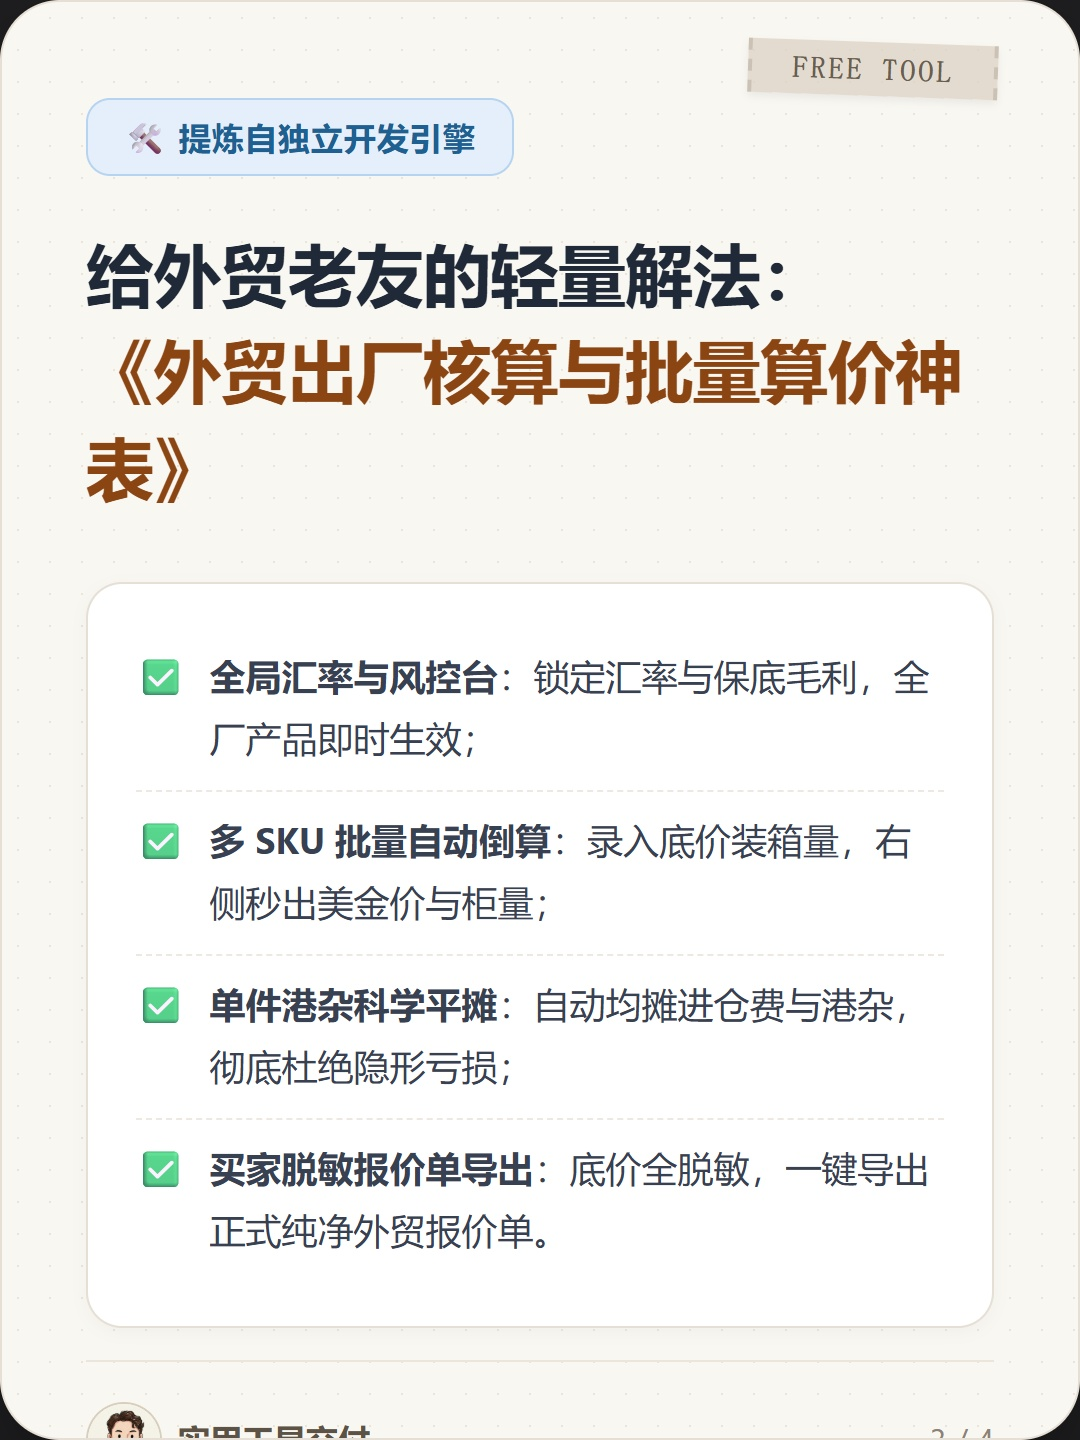
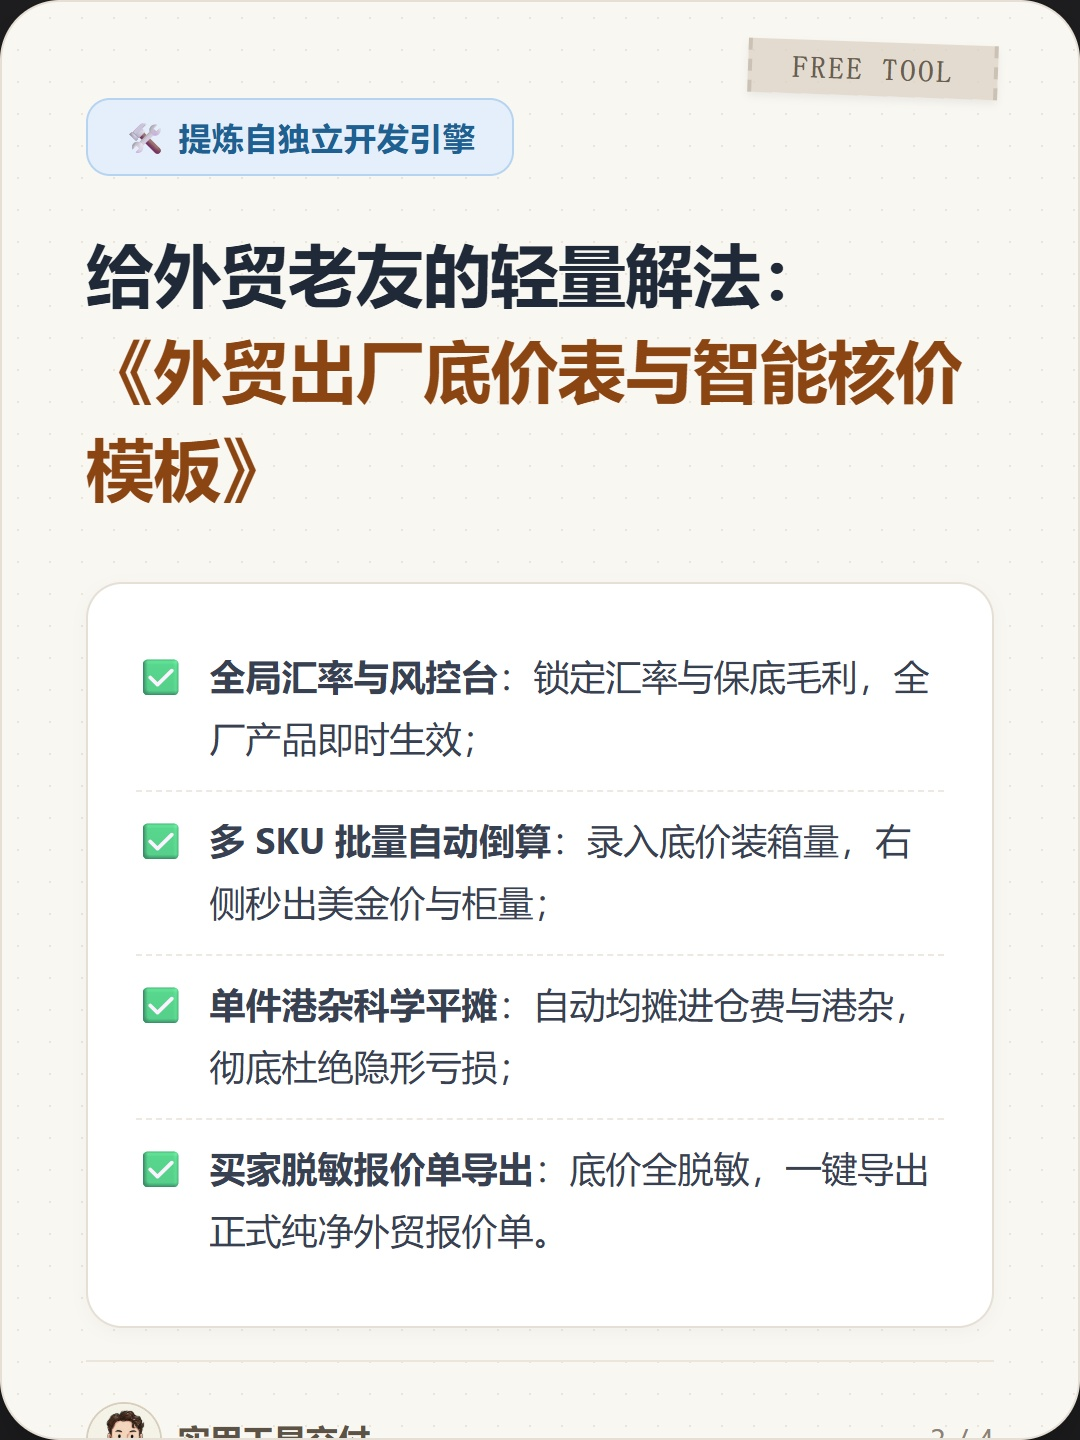
feat(lead_magnet): standardize naming to 2026外贸出厂底价表与智能核价模板_Kelvin旗舰版

Changed region(s): [[0.3972, 0.2188, 0.8861, 0.2812], [0.0611, 0.2812, 0.2444, 0.375]]

diff --git a/cards/post1_carousel.html b/cards/post1_carousel.html
@@ -299,7 +299,7 @@
         <div class="tag tag-blue">🛠 提炼自独立开发引擎</div>
         <div class="card-title">
           给外贸老友的轻量解法：<br/>
-          <span class="highlight-brand">《外贸出厂核算与批量算价神表》</span>
+          <span class="highlight-brand">《外贸出厂底价表与智能核价模板》</span>
         </div>
       </div>
       <div class="card-body">
@@ -345,7 +345,7 @@
         <div class="memo-box">
           <div style="font-weight: 700; color: #2E7D32; margin-bottom: 8px;">📦 获取方式：</div>
           <div style="line-height: 1.65;">
-            进入主页点击<b>【群聊】</b>进官方交流群，在<b>【群文件】</b>即可直接免费下载《2026外贸出厂核算控制台与批量算价神表_Kelvin旗舰版》。
+            进入主页点击<b>【群聊】</b>进官方交流群，在<b>【群文件】</b>即可直接免费下载《2026外贸出厂底价表与智能核价模板_Kelvin旗舰版》。
           </div>
         </div>
         <p style="font-size: 12.5px; color: #4B5563; line-height: 1.6; margin-top: 10px;">

diff --git a/scripts/xiaohongshu/post_01_master_ready.md b/scripts/xiaohongshu/post_01_master_ready.md
@@ -51,7 +51,7 @@
 
 ### 【Card 3：交付（轻量确定性解法）】
 * **顶部 Tag**：`🛠 提炼自独立开发引擎`（静谧蓝质感标）
-* **小标题**：**给外贸老友的轻量解法：《外贸出厂核算与批量算价神表》**
+* **小标题**：**给外贸老友的轻量解法：《外贸出厂底价表与智能核价模板》**
 * **功能清单框（完全对应真实 Excel 模板）**：  
   * ✅ **全局汇率与风控台**：锁定汇率与保底毛利，全厂产品即时生效；
   * ✅ **多 SKU 批量自动倒算**：录入底价装箱量，右侧秒出美金价与柜量；
@@ -65,7 +65,7 @@
 * **顶部 Tag**：`🎁 实用工具箱自取`（薄荷绿质感标）
 * **主标题**：**纯净核价模板已备好，主页官方群聊自取 ☕**
 * **自取路径框**：  
-  * 📦 **获取方式**：进入主页点击**【群聊】**进官方交流群，在**【群文件】**即可直接免费下载《2026外贸出厂核算控制台与批量算价神表_Kelvin旗舰版》。
+  * 📦 **获取方式**：进入主页点击**【群聊】**进官方交流群，在**【群文件】**即可直接免费下载《2026外贸出厂底价表与智能核价模板_Kelvin旗舰版》。
 * **引导交流**：💬 平时批量核价或做英文报价单最烦哪个环节？非常欢迎在评论区交流，我很乐意用技术帮大家一步步优化解决。
 * **页脚作者标识**：`IT佬Kelvin ｜ 大湾区独立开发` ｜ `4 / 4`
 
@@ -81,14 +81,14 @@
 在研发这套系统的过程中，我深入梳理了大量工贸一体与外贸业务的真实出单流程。我发现做外贸的朋友，每天最繁琐、最耗费心力的工作之一，就是面对海外买家发来各种各样的非标询盘邮件：
 买家一封邮件发来十几个甚至几十个型号，业务员要翻出工厂底价表一个个查底价、换算美元汇率、手动平摊海运港杂、还要心算 20GP/40HQ 能装多少箱……整个过程繁琐而且特别容易算错毛利。
 
-为了让大家在日常核价时不再反复按计算器，我把我出单引擎底层那套确定性的批量算价模型，单独抽离成了一套纯净的《外贸出厂核算控制台与批量算价神表》免费分享给大家：
+为了让大家在日常核价时不再反复按计算器，我把我出单引擎底层那套确定性的批量算价模型，单独抽离成了一套纯净的《外贸出厂底价表与智能核价模板》免费分享给大家：
 
 1⃣ 全局汇率与风控控制台：预置了多币种内部锁定汇率，设定全厂保底毛利（如15%）与防穿底红线（如8%），全厂产品即时联动生效；
 2⃣ 多 SKU 批量自动秒算：告别单品反复倒腾，批量录入产品底价与外箱体积，右侧全量产品自动批量倒算出精准的 FOB 美金单价；
 3⃣ 港杂平摊与集装箱柜量秒查：自动把进仓费与海运港杂平摊到单件成本中，并根据箱规自动算出 20GP 小柜与 40HQ 高柜的满载件数；
 4⃣ 买家纯净脱敏报价单：附带了专属的对外纯净商业报价页，工厂底价与利润率全部隐藏脱敏，可直接导出 PDF 发给海外买家。
 
-模板已经整理在主页的粉丝群文件里了（名字是《2026外贸出厂核算控制台与批量算价神表_Kelvin旗舰版》），点击主页群聊就能免费下载，普通 Excel 或 WPS 都能直接用 ☕
+模板已经整理在主页的粉丝群文件里了（名字是《2026外贸出厂底价表与智能核价模板_Kelvin旗舰版》），点击主页群聊就能免费下载，普通 Excel 或 WPS 都能直接用 ☕
 
 如果大家平时在批量核价、或者整理几百个型号的报价单时遇到了卡壳繁琐的环节，非常欢迎在评论区留言交流，我很乐意用代码帮大家一步步优化解决。
 
@@ -114,7 +114,7 @@
 ### 1. 询问如何领模板
 * **用户提问**：“怎么领？” / “模板在哪里？” / “求发一份”
 * **官方回复**：  
-  > “老友，点击我的主页，下方有官方【群聊】入口，进入群聊后在【群文件】就可以直接下载《2026外贸出厂核算控制台与批量算价神表_Kelvin旗舰版》，录入底价后右侧黄色区域批量自动出美金价和柜量，普通 Excel / WPS 直接可用 ☕”
+  > “老友，点击我的主页，下方有官方【群聊】入口，进入群聊后在【群文件】就可以直接下载《2026外贸出厂底价表与智能核价模板_Kelvin旗舰版》，录入底价后右侧黄色区域批量自动出美金价和柜量，普通 Excel / WPS 直接可用 ☕”
 
 ### 2. 询问模板使用与修改
 * **用户提问**：“公式可以自己修改吗？” / “汇率怎么更新？”
@@ -137,6 +137,6 @@
 
 - [x] **合规扫描**：已运行 `python tools/check_compliance.py`，0 违规词，0 导流词；
 - [x] **主页五件套**：头像 (`avatar_kelvin_crayon_exact_match.jpg`) 与背景图 (`profile_banner_crayon_craft.jpg`) 装修完毕；
-- [x] **群聊组件开启**：主页已创建《IT佬Kelvin 的出海工具交流群》，群文件已上传《2026外贸出厂核算控制台与批量算价神表_Kelvin旗舰版.xlsx》；
+- [x] **群聊组件开启**：主页已创建《IT佬Kelvin 的出海工具交流群》，群文件已上传《2026外贸出厂底价表与智能核价模板_Kelvin旗舰版.xlsx》；
 - [x] **图片比例检查**：4 张图片严格保持 3:4 比例，无裁切风险；
 - [x] **发布环境安全**：手机使用 4G/5G 蜂窝网络，关闭公共 Wi-Fi，在小红书 App 打开【创作者中心】发布。
